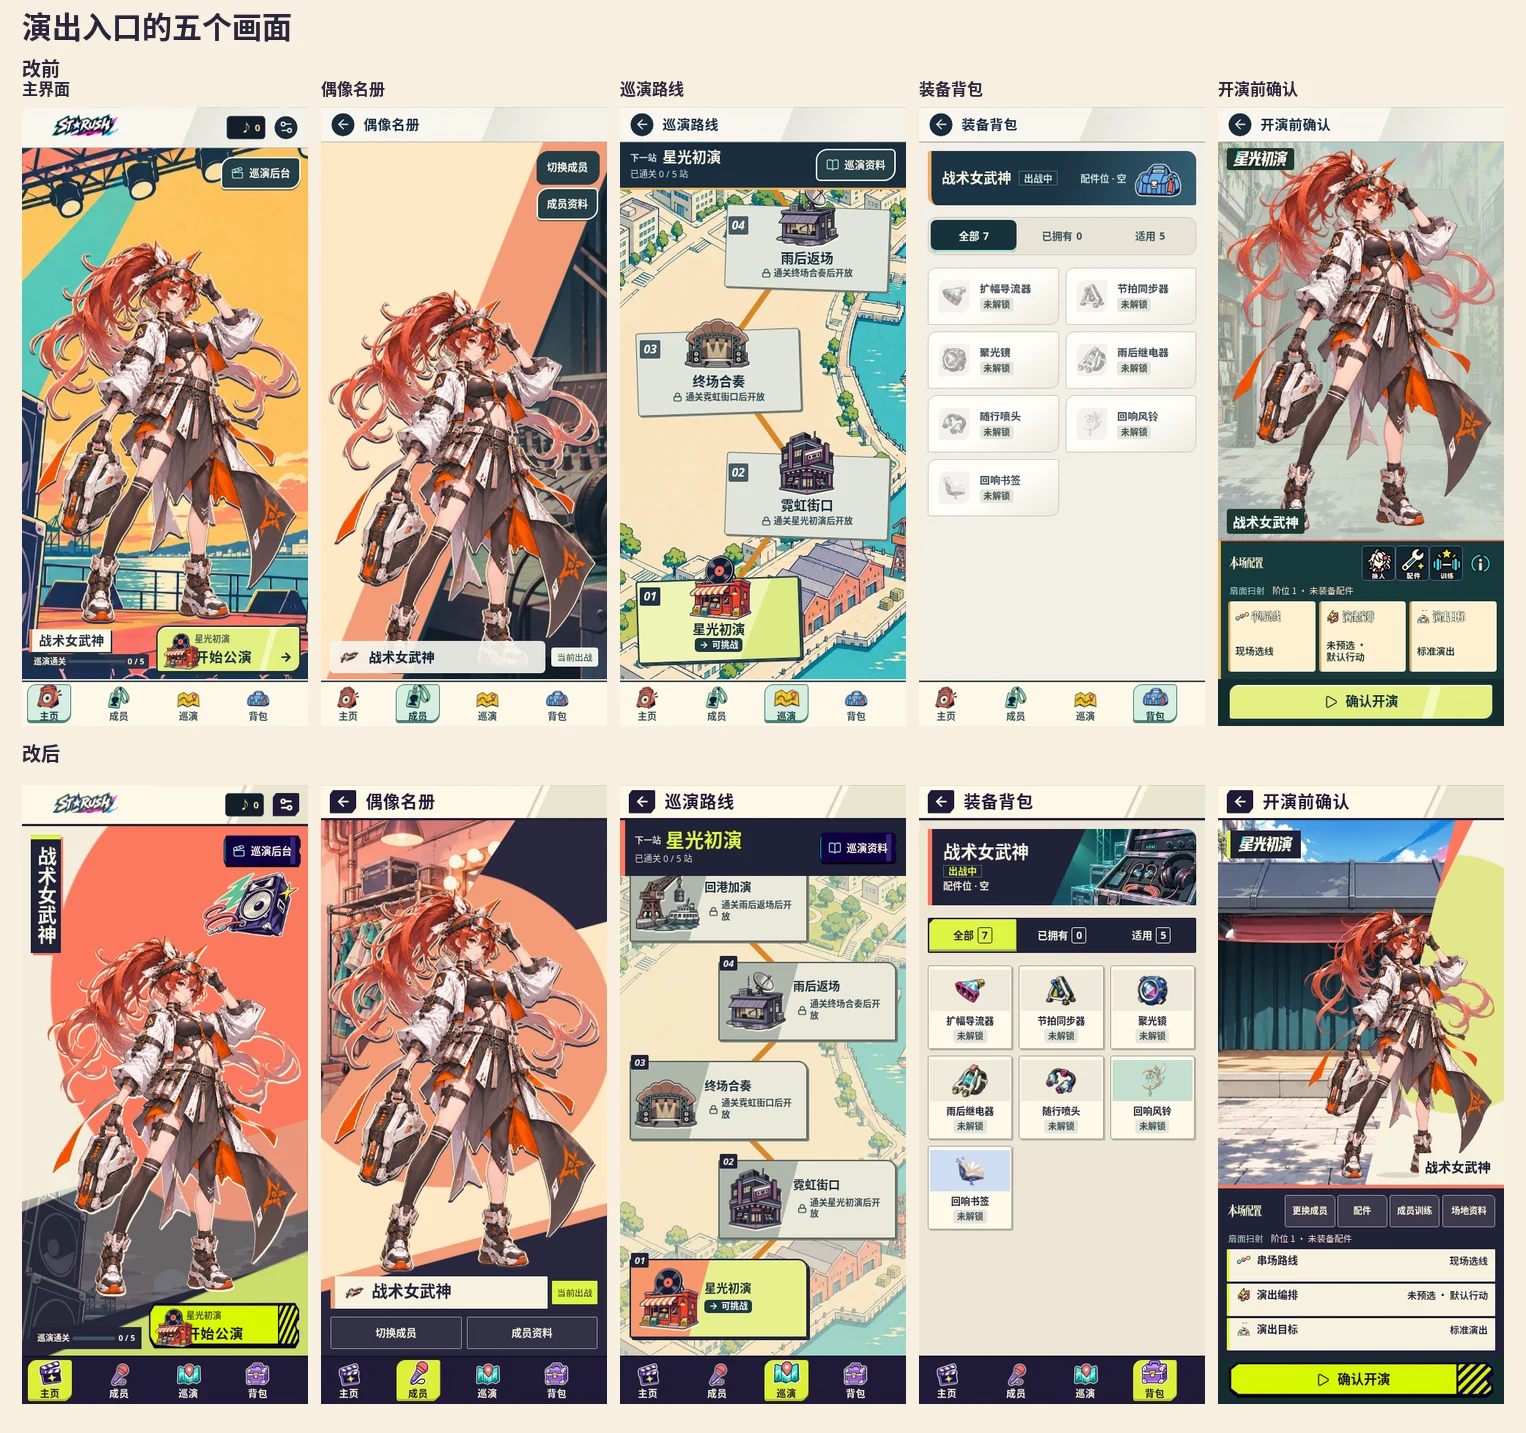
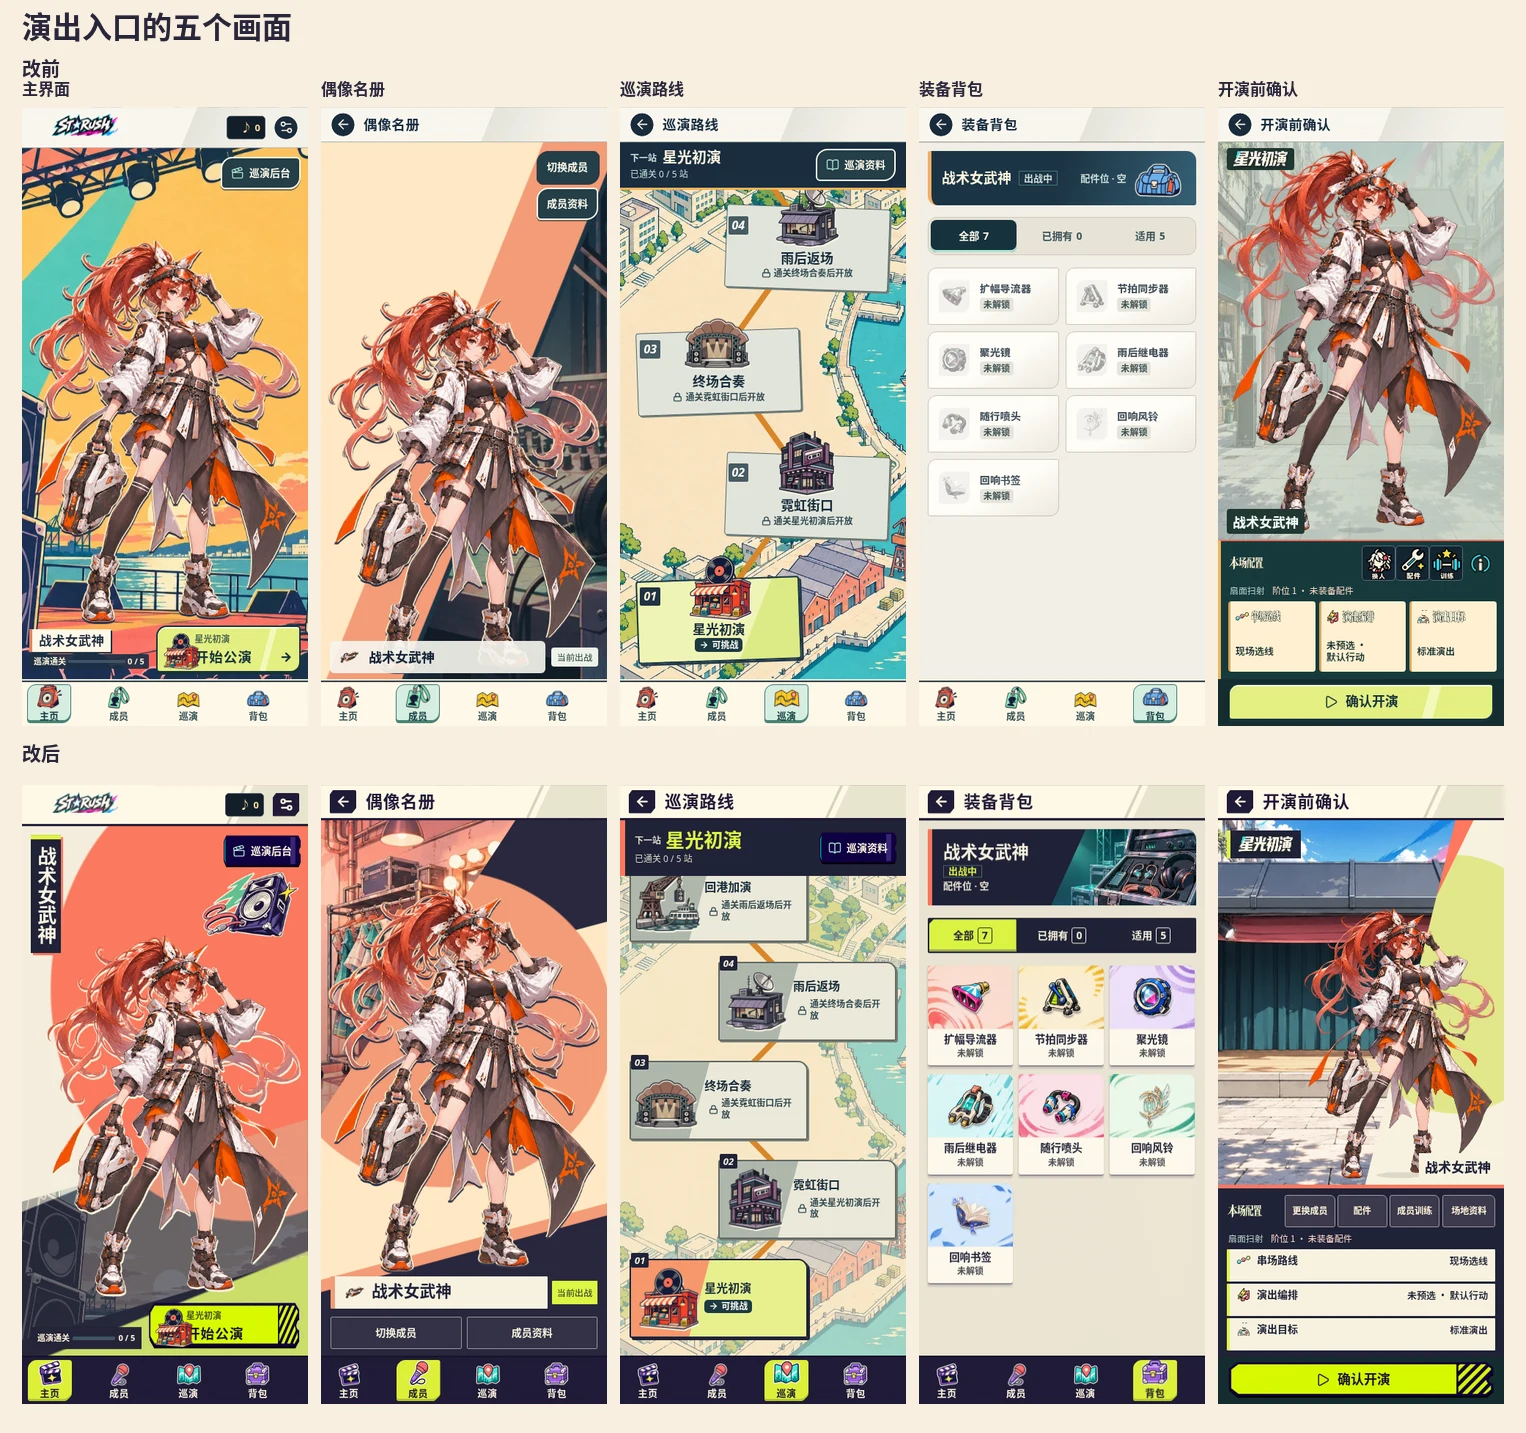
Give all seven inventory items dedicated illustrated cards and larger silhouettes

Changed region(s): [[0.5852, 0.6448, 0.8008, 0.9211], [0.7392, 0.9518, 0.77, 0.9826]]

diff --git a/game/src/styles/printroomStagePages.css b/game/src/styles/printroomStagePages.css
@@ -140,28 +140,45 @@
       color:inherit;border:1px solid currentColor;border-radius:3px;
     }
     & .ui-item-grid {
-      display:grid;grid-template-columns:repeat(3,minmax(0,1fr));grid-auto-rows:auto;gap:9px;
-      align-content:start;padding:0 2px 9px 0;
+      display:grid;grid-template-columns:repeat(3,minmax(0,1fr));grid-auto-rows:auto;gap:10px 8px;
+      align-content:start;padding:0 2px 11px 0;
     }
+    & [data-inventory-item=wide_nozzle] {--gear-print:url('/art/printroom/item-sound.webp');--gear-stock:#f5af98}
+    & [data-inventory-item=rhythm_sync] {--gear-print:url('/art/printroom/item-pulse.webp');--gear-stock:#cddc83}
+    & [data-inventory-item=focus_lens] {--gear-print:url('/art/printroom/item-focus.webp');--gear-stock:#a1c5e2}
+    & [data-inventory-item=rain_relay] {--gear-print:url('/art/printroom/item-rain.webp');--gear-stock:#a3d8c8}
+    & [data-inventory-item=travelling_nozzle] {--gear-print:url('/art/printroom/item-delay.webp');--gear-stock:#f5c68a}
+    & [data-inventory-item=return_edge] {--gear-print:url('/art/printroom/item-echo.webp');--gear-stock:#b1decf}
+    & [data-inventory-item=delayed_hammer] {--gear-print:url('/art/printroom/item-leaf.webp');--gear-stock:#bad6e9}
     & .ui-item-grid .ui-item-slot {
-      grid-template-columns:minmax(0,1fr);grid-template-rows:56px auto auto;
-      justify-items:center;align-content:start;gap:3px;min-height:111px;height:auto;padding:5px 2px 7px;
-      border:1px solid #9e9a8f;border-radius:3px;background:#fff9e9;box-shadow:2px 2px #beb7a6;text-align:center;
+      grid-template-columns:minmax(0,1fr);grid-template-rows:clamp(74px,22vw,96px) auto auto;
+      align-content:start;justify-items:center;gap:0;min-height:0;height:auto;padding:0 0 8px;
+      overflow:hidden;border:0;border-bottom:2px solid #918890;border-radius:3px 9px 4px 4px;
+      background:#fffaee;box-shadow:0 2px 2px #2a234c25;text-align:center;
     }
-    & .ui-item-grid .ui-item-slot .equipment-art-slot {
-      grid-area:1/1;width:100%;height:56px;display:grid;place-items:center;align-self:center;
-      border:0;border-radius:0;background:transparent;
+    & .ui-item-grid .ui-item-slot > .equipment-art-slot {
+      position:relative;isolation:isolate;grid-area:1/1;width:100%;height:100%;max-width:none;
+      display:grid;place-items:center;align-self:stretch;overflow:hidden;
+      border:0;border-radius:0;background:var(--gear-stock) var(--gear-print) center/cover no-repeat;
     }
-    & .ui-item-grid .ui-item-slot .equipment-art {max-width:100%;height:53px;width:61px;object-fit:contain}
     & .ui-item-grid .ui-item-slot[data-state=locked] > .equipment-art-slot {
-      opacity:1;filter:none;background:var(--gear-well,linear-gradient(130deg,#f1ebd8,#ece8da));
+      opacity:1;filter:none;background:var(--gear-stock) var(--gear-print) center/cover no-repeat;
     }
-    & .ui-item-grid .ui-item-slot[data-state=locked] .equipment-art {filter:saturate(.8);opacity:1}
-    & .ui-item-grid [data-inventory-item=return_edge] {--gear-well:#c3dfcf}
-    & .ui-item-grid [data-inventory-item=delayed_hammer] {--gear-well:#cfddf1}
-    & .ui-item-grid .ui-item-slot .ui-item-name {grid-area:2/1;align-self:center;text-align:center;color:var(--stage-ink);font:800 13px/17px system-ui,sans-serif}
-    & .ui-item-grid .ui-item-slot .ui-item-state {grid-area:3/1;justify-self:center;text-align:center}
-    & .ui-item-grid .ui-item-slot[data-state=equipped] {border:2px solid #364637;background:#eff5d2}
+    & .ui-item-grid .ui-item-slot .equipment-art {
+      width:77px;height:67px;max-width:88%;object-fit:contain;opacity:1;
+      filter:drop-shadow(1px 1px 0 #fff5de) drop-shadow(0 2px 1px #2320307a);
+    }
+    & .ui-item-grid .ui-item-slot .ui-item-name {
+      grid-area:2/1;align-self:center;margin:6px 2px 0;color:var(--stage-ink);
+      text-align:center;font:850 clamp(13px,3.7vw,16px)/1.22 system-ui,sans-serif;
+    }
+    & .ui-item-grid .ui-item-slot .ui-item-state {
+      grid-area:3/1;justify-self:center;margin-top:3px;padding:0 4px;border:0;border-radius:2px;
+      background:transparent;color:#4d5158;text-align:center;font:650 12px/16px system-ui,sans-serif;
+    }
+    & .ui-item-grid .ui-item-slot[data-state=equipped] {border-color:#1b5942;background:#e8f1dc}
+    & .ui-item-grid .ui-item-slot[data-state=equipped] .ui-item-state {background:#1b5942;color:#fffaf0}
+
   }
 
   &[data-page=preflight] {

diff --git a/01-美术/printroom/README.md b/01-美术/printroom/README.md
@@ -1,12 +1,13 @@
 # 公演手绘界面原稿
 
-本目录保留了本轮用 GPT 出图的四张原始画稿。角色立绘沿用负责人已确认的三张原画。所有可变文字、数字、锁定状态和键盘焦点都由游戏绘制，换语言和改变字号时仍可读。
+本目录保留了本轮用 GPT 出图的五张原始画稿。角色立绘沿用负责人已确认的三张原画。所有可变文字、数字、锁定状态和键盘焦点都由游戏绘制，换语言和改变字号时仍可读。
 
 | 原稿 | 可单独替换的区域 | 游戏用途 |
 | --- | --- | --- |
 | nav-original.png | 左上场记板、右上话筒、左下巡演地图、右下器材箱 | 四个底栏入口 |
 | tickets-original.png | 从上至下为黄绿演出票、浅纸票、深墨票 | 确认、次操作和深底操作的文字底面 |
 | speaker-original.png | 透明底音箱贴纸 | 公演大厅的插画 |
+| items-original.png | 第一行从左到右为声波、节奏、镜头、雨线。第二行使用回声、翡翠、纸叶三格 | 七件配件各自的插画卡底，与实物图独立 |
 | rooms-original.png | 左上化妆间、右上器材间、左下档案室、右下排练场 | 模块场景及封面 |
 
 修改原稿后，在此目录运行 `bash export.sh`。脚本需要 ImageMagick，把同一构图按游戏用到的位置裁开、缩小并写为 WebP。四个导航图标保留既有运行路径，其余位于 `game/public/art/printroom/`。
